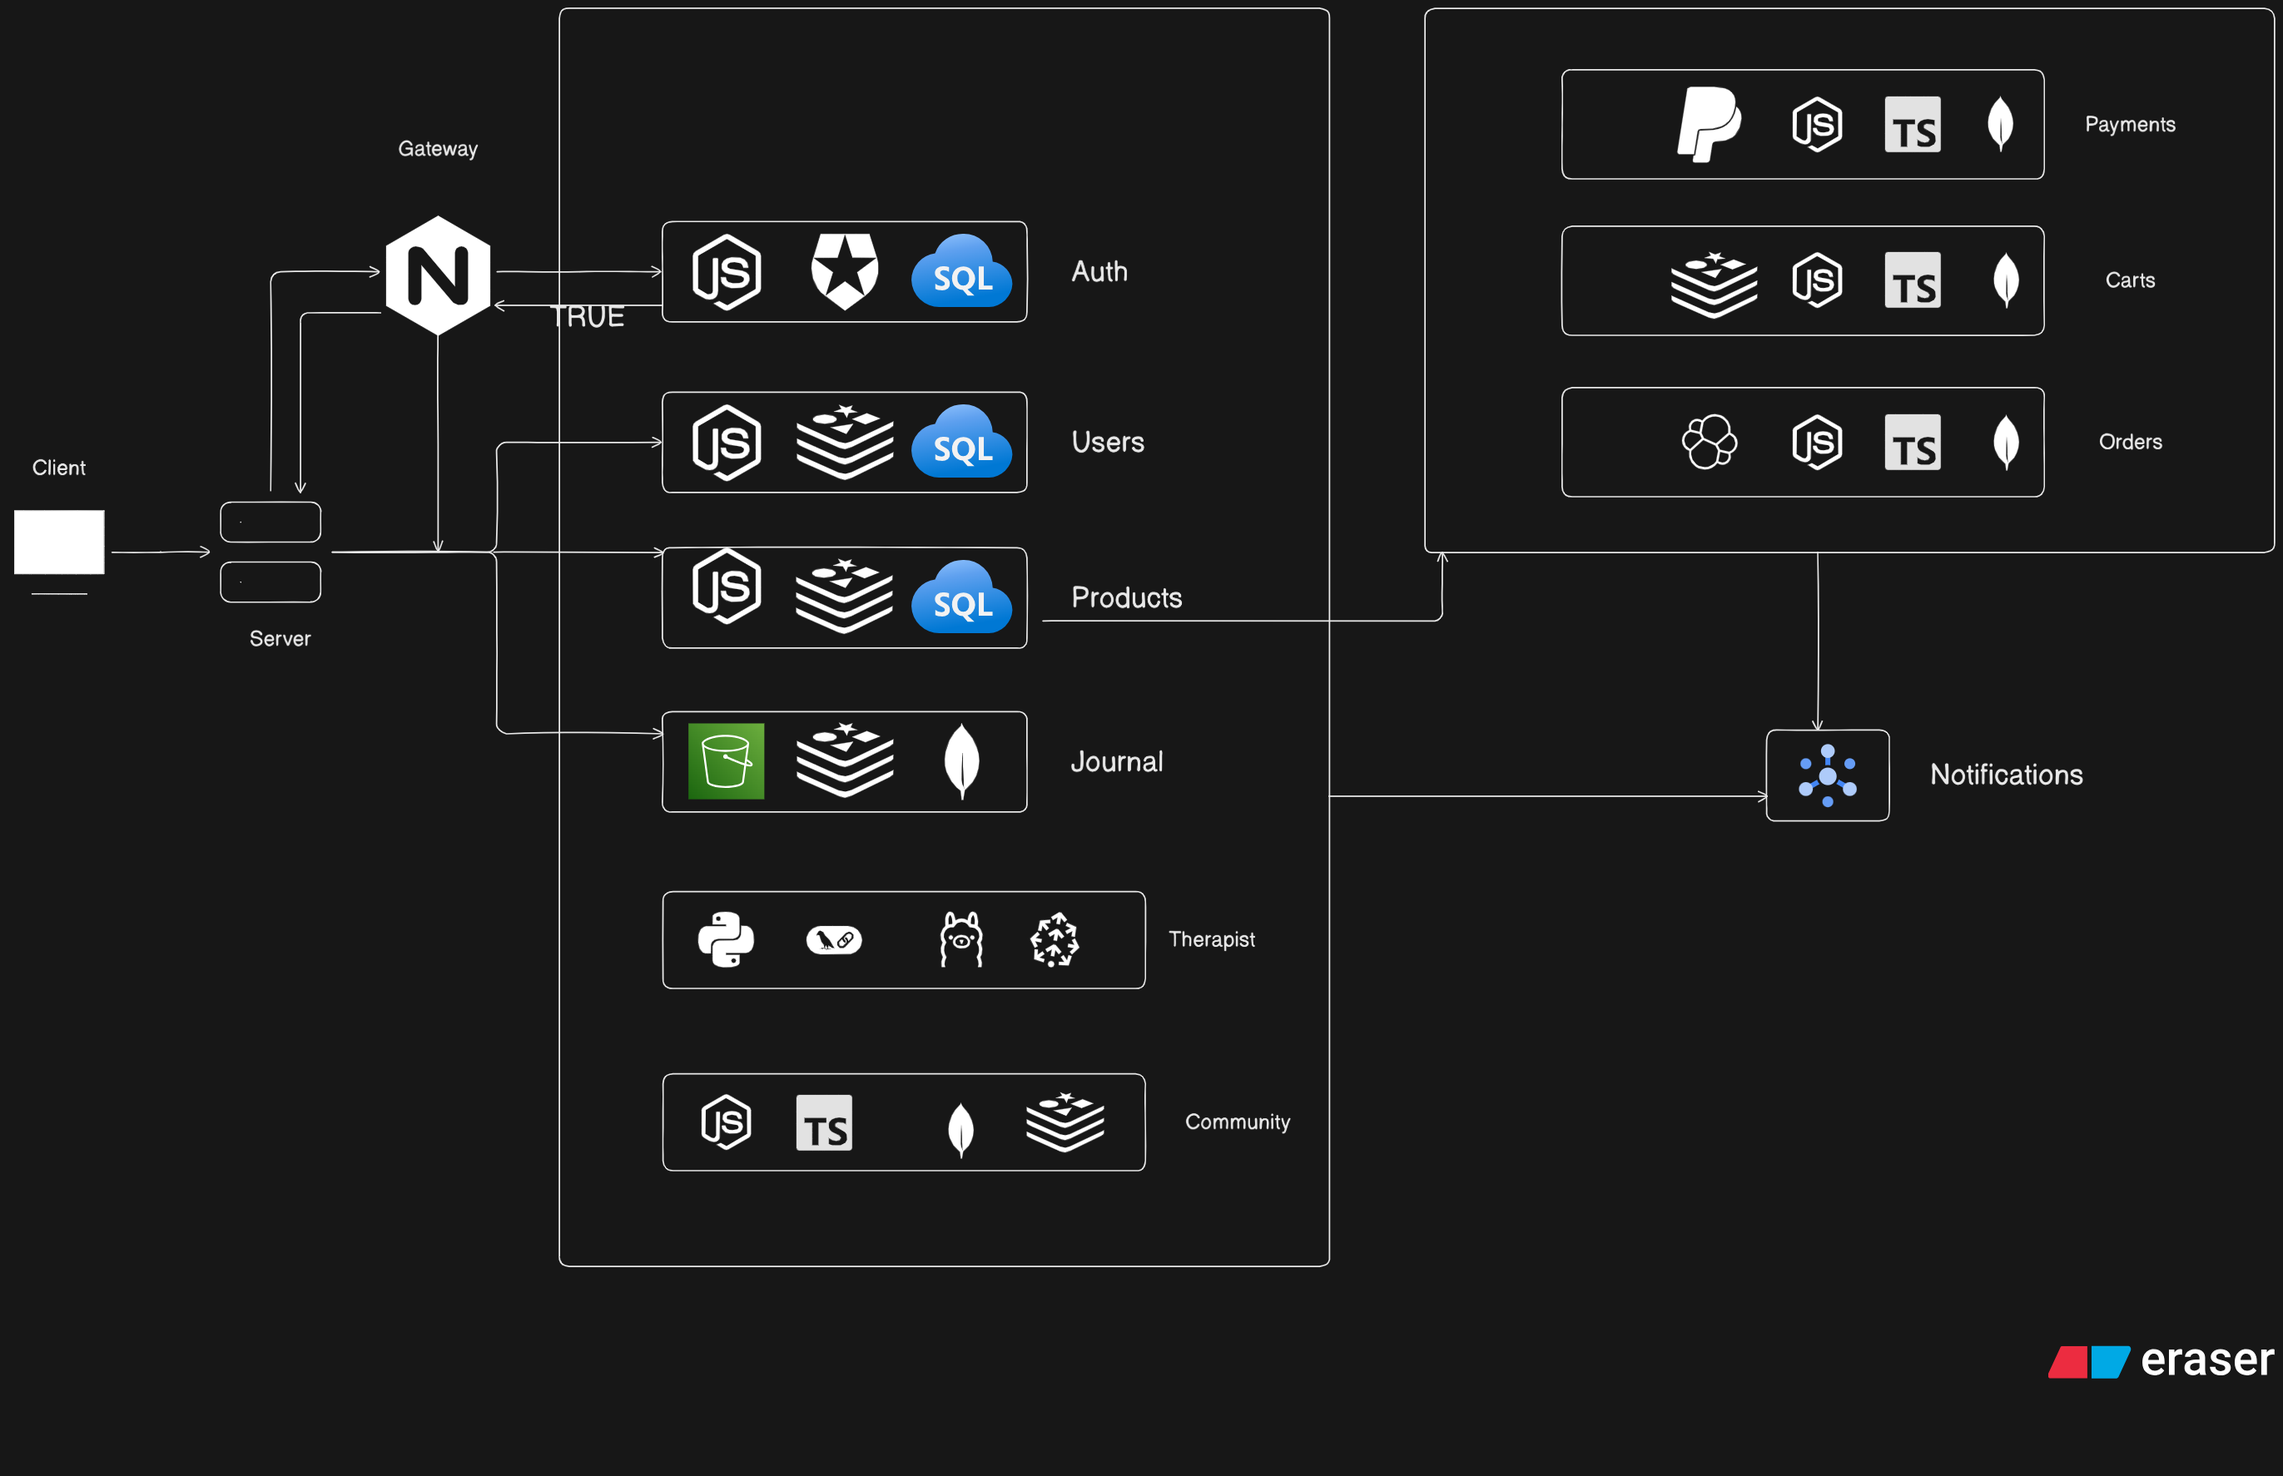
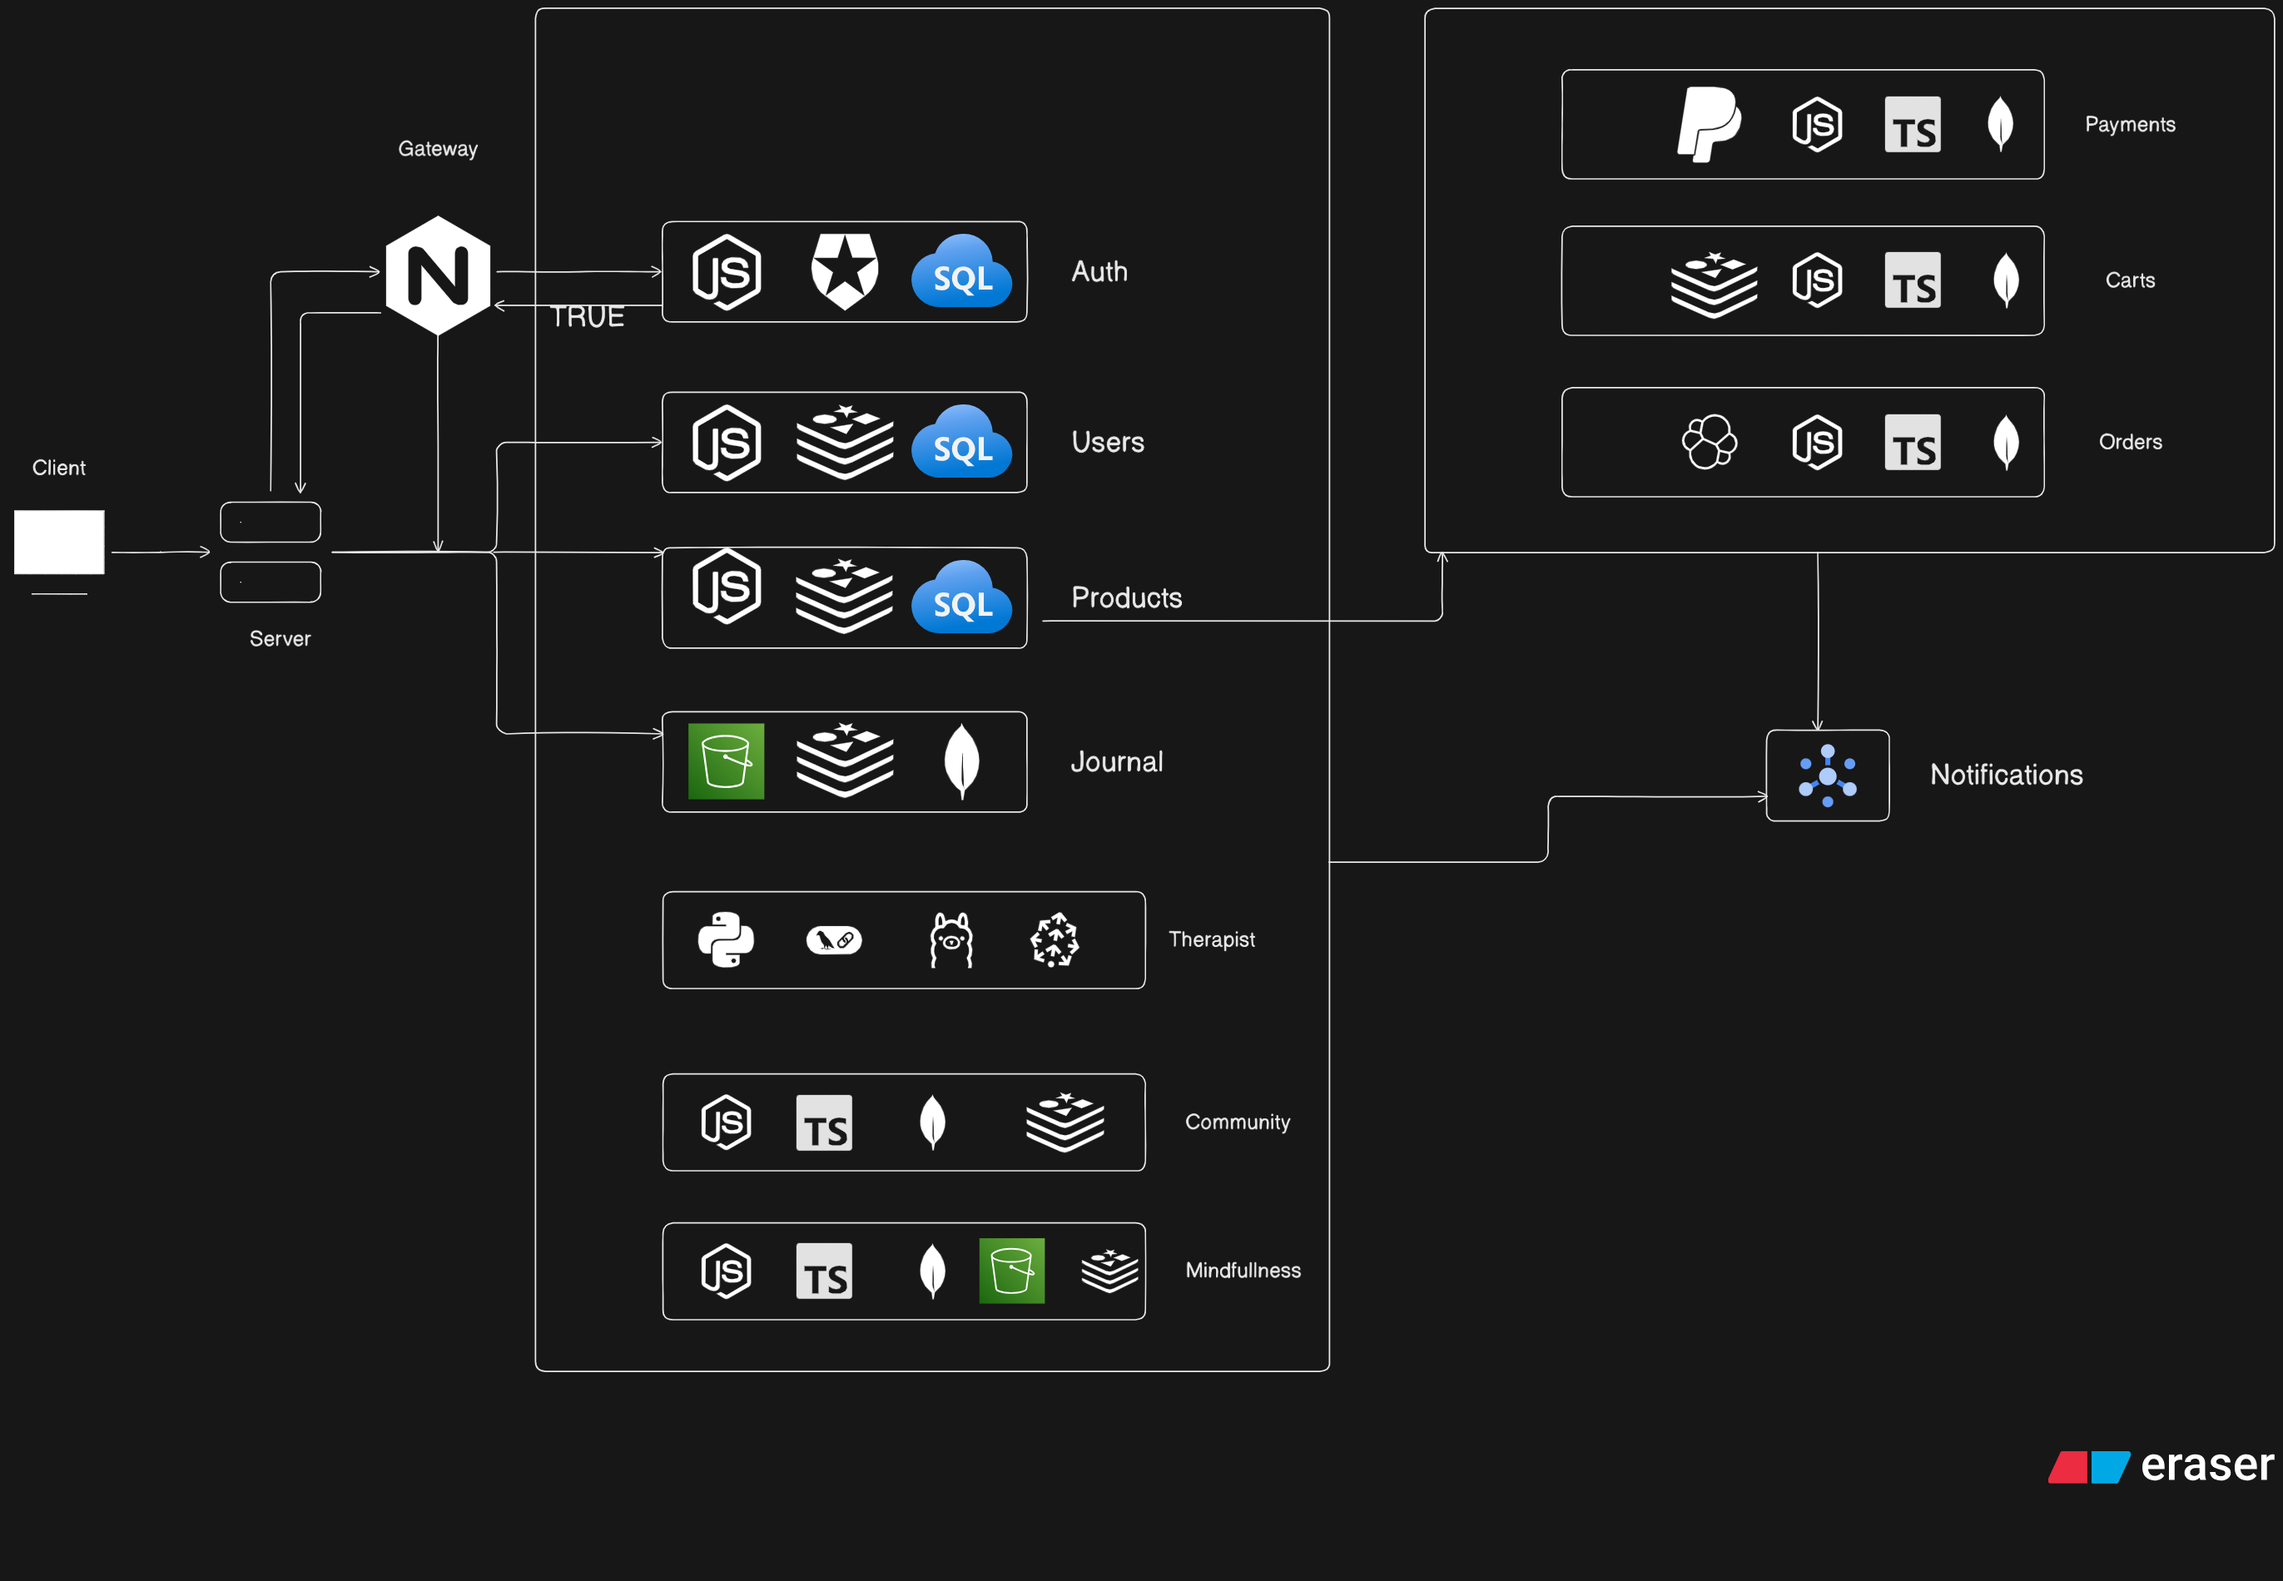
modified readme and updated design docs

diff --git a/README.md b/README.md
@@ -2,68 +2,82 @@
 
 # 🌿 MindSpace
 
-**Discover, Read, Journal, Connect—Build a community for spreading positive mindset**
+**Discover, Purchase, Journal, Meditate, Connect—Build a community for spreading positive mindset**
 
 > A modern product e-commerce marketplace only focusing on mind ful products to promote mental well being.
 
-![Express](https://img.shields.io/badge/-Express-black?logo=express&logoColor=white)
-![JSON](https://img.shields.io/badge/-JSON-black?logo=json&logoColor=white)
-![npm](https://img.shields.io/badge/-npm-CB3837?logo=npm&logoColor=white)
-![.ENV](https://img.shields.io/badge/-.ENV-yellow?logo=dotenv&logoColor=black)
-![JavaScript](https://img.shields.io/badge/-JavaScript-F7DF1E?logo=javascript&logoColor=black)
-![Nodemon](https://img.shields.io/badge/-Nodemon-3C873A?logo=nodemon&logoColor=white)
-![React](https://img.shields.io/badge/-React-61DAFB?logo=react&logoColor=black)
-![Python](https://img.shields.io/badge/-Python-3776AB?logo=python&logoColor=white)
+<!-- Big / "for-the-badge" style -->
 
+![Node.js](https://img.shields.io/badge/Node.js-339933?style=for-the-badge&logo=node.js&logoColor=white)
+![Express](https://img.shields.io/badge/Express-000000?style=for-the-badge&logo=express&logoColor=white)
+![TypeScript](https://img.shields.io/badge/TypeScript-3178C6?style=for-the-badge&logo=typescript&logoColor=white)
+![PostgreSQL](https://img.shields.io/badge/PostgreSQL-316192?style=for-the-badge&logo=postgresql&logoColor=white)
+![MongoDB](https://img.shields.io/badge/MongoDB-47A248?style=for-the-badge&logo=mongodb&logoColor=white)
+![LangChain](https://img.shields.io/badge/LangChain-111111?style=for-the-badge&logo=langchain&logoColor=white)
+![LangGraph](https://img.shields.io/badge/LangGraph-6C63FF?style=for-the-badge&logo=langgraph&logoColor=white)
+![Nginx](https://img.shields.io/badge/Nginx-009639?style=for-the-badge&logo=nginx&logoColor=white)
+![Docker](https://img.shields.io/badge/Docker-2496ED?style=for-the-badge&logo=docker&logoColor=white)
+![Python](https://img.shields.io/badge/Python-3776AB?style=for-the-badge&logo=python&logoColor=white)
+![React](https://img.shields.io/badge/React-61DAFB?style=for-the-badge&logo=react&logoColor=black)
+![REST API](https://img.shields.io/badge/REST_API-109989?style=for-the-badge&logo=rest&logoColor=white)
+![GraphQL](https://img.shields.io/badge/GraphQL-E10098?style=for-the-badge&logo=graphql&logoColor=white)
+![FastAPI](https://img.shields.io/badge/FastAPI-009688?style=for-the-badge&logo=fastapi&logoColor=white)
+
+![npm](https://img.shields.io/badge/-npm-CB3837?logo=npm&logoColor=white)
+![JWT](https://img.shields.io/badge/JWT-000000?style=flat-square&logo=jsonwebtokens&logoColor=white)
+![.ENV](https://img.shields.io/badge/-.ENV-yellow?logo=dotenv&logoColor=black)
+![Nodemon](https://img.shields.io/badge/-Nodemon-3C873A?logo=nodemon&logoColor=white)
 ![Vite](https://img.shields.io/badge/-Vite-646CFF?logo=vite&logoColor=white)
-![ESLint](https://img.shields.io/badge/-ESLint-4B32C3?logo=eslint&logoColor=white)
 
 </div>
 
-## 📖 Overview
+## 💻 Services Overview
 
-**Mindmap** With an aim to help people with their mental well-being. Serves as a robust platform for buying, browsing, and managing different products, journaling and talking to AI powered therapist bot.
+**Auth-Service**
 
-## 💻 Feature Overview
+- Tech: Express, Typescript, Jsonwebtokens, OAuth
+- Overview: Role based access, validating tokens, security for routes and services.
 
-**Users**
+**User-Service**
 
-- Tech: Express, Typescript, MySQL, REST API, Jsonwebtokens
-- Sub Features: Role based access of personal created resources like journals, purchased products, therapist conversations, liked community posts
-- Approach: We will authenticate users with JWT tokens
+- Tech: Express, Typescript, REST API, PostgreSQL
+- Overview: Maintains user data, logins and signup and other details, details modifications.
 
-Future improvements: We will introduct seller features like dashboards to list their products
-
-**Products**
+**Products-Service**
 
 - Tech: Express, MongoDB, Redis, ElasticSearch, GraphQL
-- Sub Features - Add to cart, payments, favorites, search products
-- Approach - We will store products in MongoDB, search using elastic search, stored frequent API calls data in redis and do a cache hit cache miss for getting data, for payments we will use stripe or paypal API
+- Overview: Maintains products inventory and shows it to the UI from where users can order, save and pay for items.
+- Sub Systems: Orders, Cart, Payment
 
-**Journal**
+**Journal-Service**
 
-- Tech: Express, Typescript, MongoDB, REST API
-- Sub Features - Write Journal, Save journal, concent to share to community
-- Approach - We will store user created journals in MongoDB, Vectorize data for LLMS and store in Chroma DB, Retrieve data using Rest API for community wall featured posts
+- Tech: Express, Typescript, MongoDB, GraphQL, Redis, AWS S3
+- Overview: Write Journal, Save journal, Upload related images, consent to share to community.
 
-**Therapist**
+**Community-Service**
 
-- Tech: Langchain, Langgraph, FastAPi, Websockets
-- Approach - We will make a therapist agent chatbot who will have user journals for getting context of a particular users and craft responses accordingly. It will also have access to tools and different corpus of mental health data to do it's job. We will set up a RAG and give access to different APIs as a part of tool calling if needed. The LLM will classify and select the node from langgraph functions to perform the task.
+- Tech: Express, Typescript, MongoDB, GraphQL, Redis, AWS S3
+- Overview: Community page where Journals made public by users will be displayed where other users can read their stories.
 
-**Notifications**
+**Therapist-Service**
 
-- Tech: PubSub/Queue system(Yet to work and decide)
-- Sub Features - Payment done or not, one daily notification
-- Approach - We will do a publish subscribe event for this to send a notification a day to users for positivity
+- Tech: Python, Langchain, FastAPI, LangGraph, ChromaDB
+- Overview: Chat interface where users can talk to a therapist AI powered chatbot which will have context of the users and it will respond accordingly.
 
-Note: Any future ideas and improvements will be listed here. As of now this is the overall project to be completed.
+**Mindfullness-Service**
+
+- Tech: Express, Typescript, MongoDB, AWS S3.
+- Overview: Chat interface where users can talk to a therapist AI powered chatbot which will have context of the users and it will respond accordingly.
+
+**Notifications-Service**
+
+- Tech: PubSub/Queue system, Redis, Typescript
+- Sub Features - Payment done or not, Order placed, one daily notification
+- Approach - We will do a publish subscribe event for this to send a notification a day to users for positivity and for other notifications as well.
 
 ### 🔍 Architecture and Planning
 
 - **Modular Monorepo and SOA focused:** Scalable structure separating client and server apps.
-- **Development:** Uses modern frameworks like express for handling API calls and business logic, react for UI, typescript for typesafe code, python, Langchain, Langgraph and Fast API for the large language model capabilities.
-  Planning to use best practices of development for better handling of performance.
 - **MERN Stack + Fast API + Langchain:** Services, Client, Database, Business logic and services in one place.
 - **API:** Inter-communication between services using REST APIs and GraphQL.
 - **Best Practices:** Readable code, using low level design concepts, documentation, and extensibility in mind.
@@ -80,64 +94,10 @@ To set up the project:
 - **Frameworks:** React, Express, Fast API, Langchain, Langgraph
 - **Package Manager:** `pip`, `npm`, `uv`
 
----
-
-## ⚙ Installation
-
-Clone the repository and install dependencies.
-
-```bash
-git clone https://github.com/subhajitbaidya/MindSpace.git
-```
-
-```bash
-cd Mindspace
-# Navigate to each directory and run commands accordingly.
-npm install
-pip install requirements.txt
-```
-
-Set environment variables or configure via `.env`.
-
----
-
-## ▶ Usage
-
-Run the project locally:
-
-```
-In root directory it is configured with npm workspaces
-
-run `npm run dev` in root directory.
-
-```
-
----
-
-## 🧪 Testing
-
-Testing suite information coming soon
-
-```
-
-## 🧪 Deployment
-
-Deployment information coming soon
-
-```
-
----
-
 ## 📬 Feedback
 
 Thank you for checking out my repository. You are more than welcome to contribute to my idea and support me.
 
-Here is how you can do that -
-
 - Raise issues or suggest features via [GitHub Issues](https://github.com/subhajitbaidya/MindSpace/issues).
 
 ---
-
-```
-
-```

diff --git a/Design/Concept.md b/Design/Concept.md
@@ -12,3 +12,21 @@ We have an ecommerce platform and a community driven application which helps peo
 - Community - All people posts top posts etc.
 - Notifications - Pub sub queue for sending notifications.
 - Mindfulness - Meditate, yoga etc. (Pre Dev Concept)
+
+## Development Ideas and Approaches
+
+## Development Ideas and Approaches
+
+| Service           | Development Ideas                                                              | Tech & Approach                                                    |
+| ----------------- | ------------------------------------------------------------------------------ | ------------------------------------------------------------------ |
+| **Auth**          | Implement JWT auth, refresh tokens, OAuth login, role-based access             | FastAPI / Node.js, JWT, Redis blacklist, MongoDB/PostgreSQL        |
+| **Users**         | Manage profiles, avatars, preferences, streaks, activity logs                  | CRUD APIs, S3 for images, Redis caching, rate limiting             |
+| **Products**      | Product catalog, filters, search, recommendations                              | MongoDB/PostgreSQL, ElasticSearch/Meilisearch, REST API            |
+| **Payments**      | UPI/Card payments, refunds, wallet support                                     | Razorpay/Stripe, webhooks, secure signature verification           |
+| **Cart**          | Add/remove items, persistent cart, guest cart migration                        | Redis for fast ops, MongoDB for persistence, optimistic updates    |
+| **Orders**        | Order creation, tracking, invoices, history                                    | Event-driven flow, PDF invoices, notification integration          |
+| **Journal**       | Rich text editor, mood tags, private entries, mood analytics                   | Quill/TipTap editor, encryption, optional NLP mood detection       |
+| **Therapist**     | AI chatbot for mental support, CBT-based flows, sentiment/escalation detection | LLM (OpenAI/Local), RAG memory, safety filters, sentiment analysis |
+| **Community**     | Posts, likes, comments, trends, moderation, anonymous posting                  | MongoDB/PostgreSQL, WebSockets, AI profanity/sentiment filter      |
+| **Notifications** | Real-time notifications, reminders, community/activity alerts                  | Kafka/NATS/RabbitMQ, push notifications, cron jobs                 |
+| **Mindfulness**   | Meditation audio, yoga poses, daily challenges, progress tracking              | CDN for audio/video, streaks system, optional PWA offline mode     |
